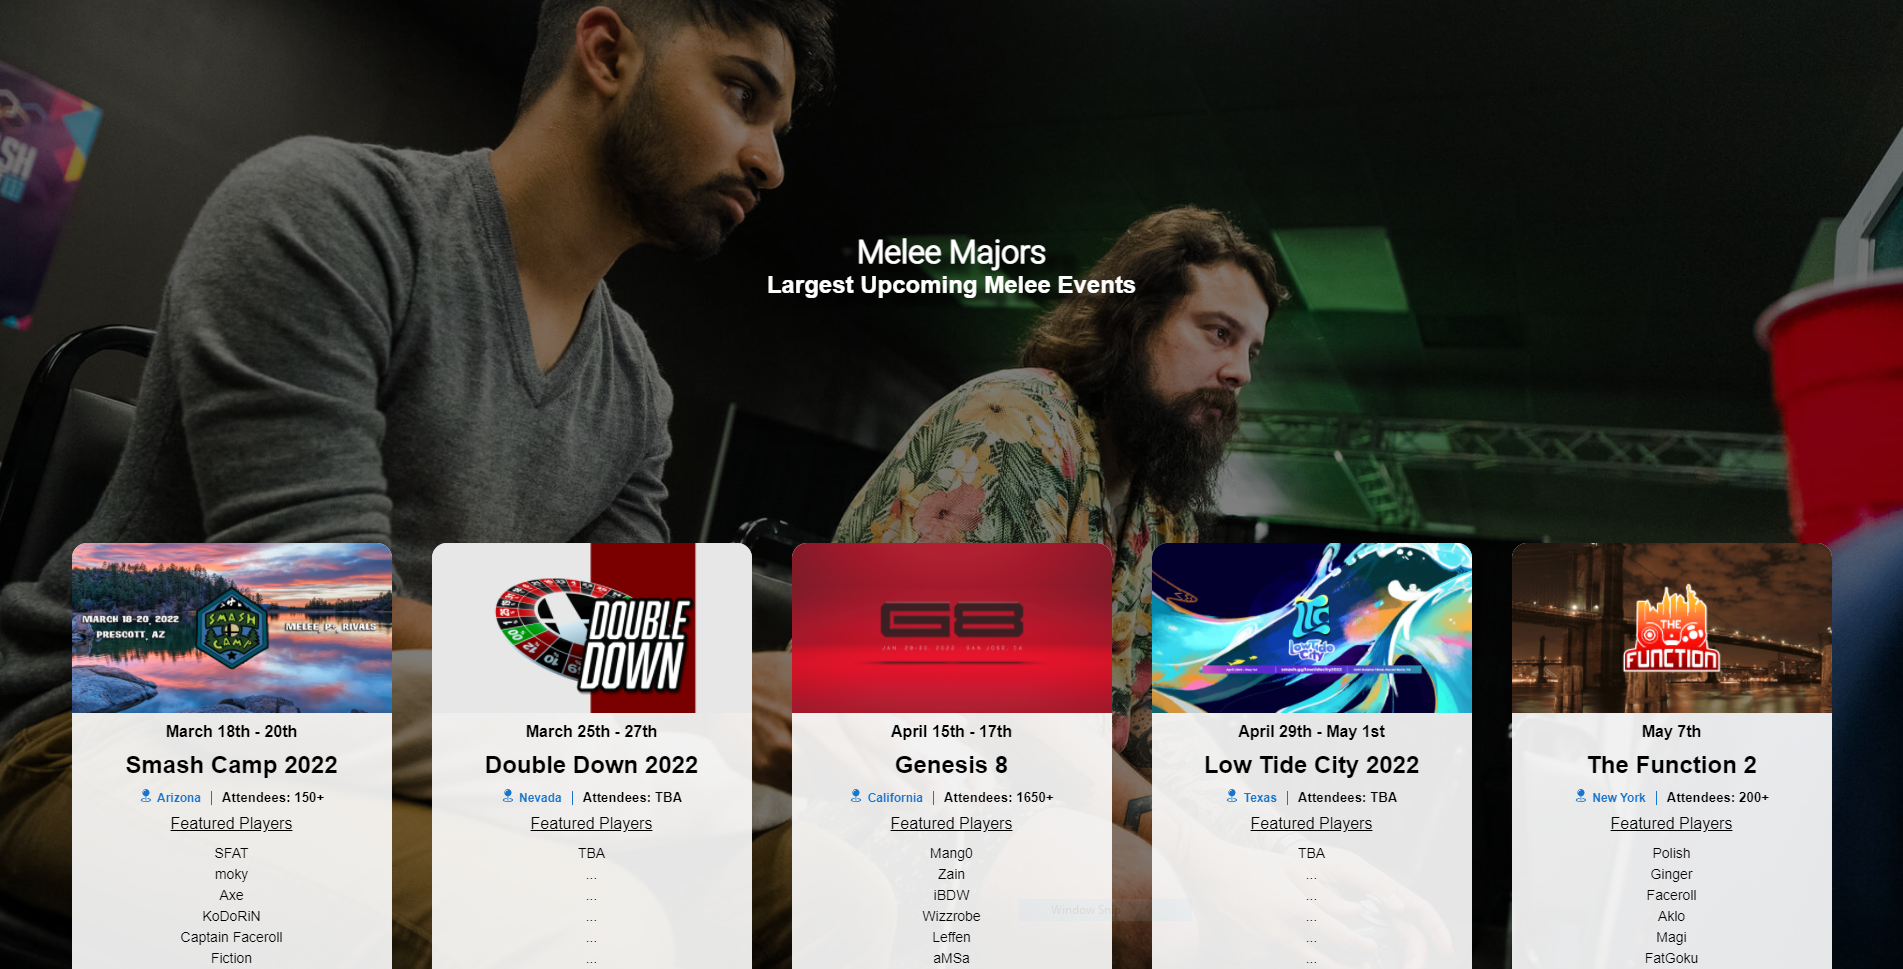
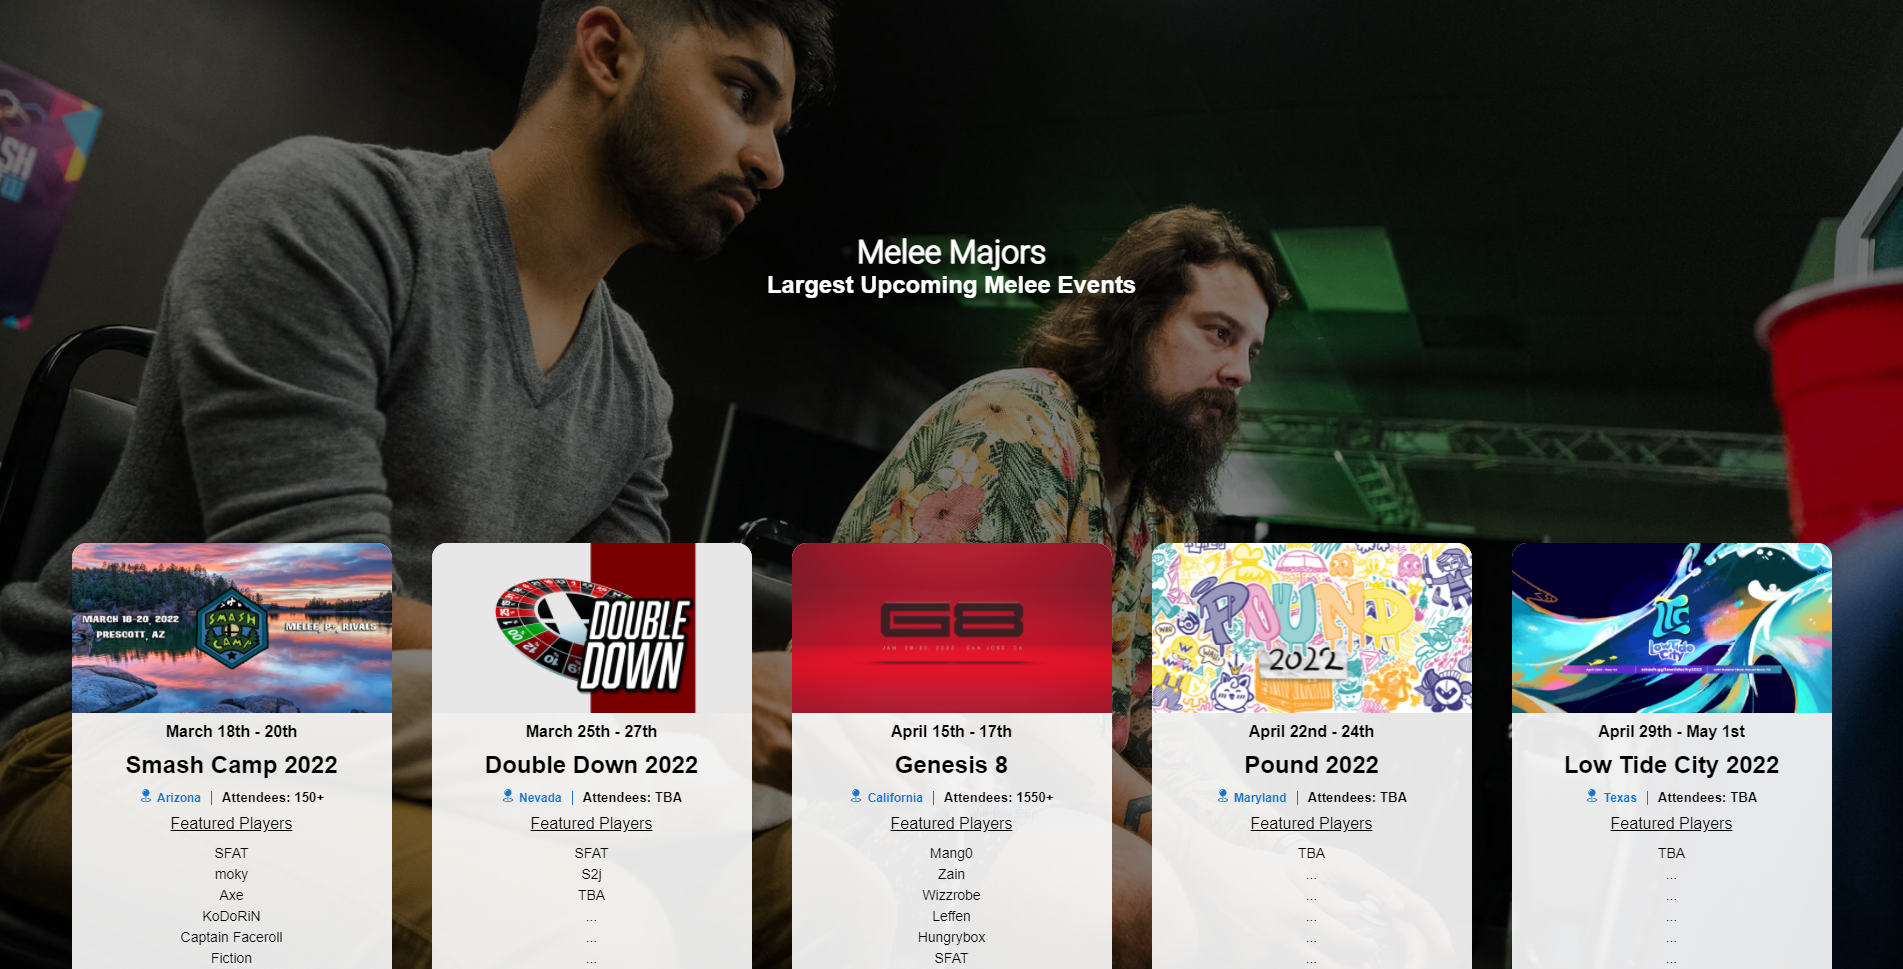
Update 1.6.0: Added Pound 2022 and CEO 2022, updated tournament information

diff --git a/index.html b/index.html
@@ -10,7 +10,7 @@
     <link rel="shortcut icon" href="icon.png" />
     <meta property="og:image" content="http://meleemajors.com/meleeog.PNG">
     <link href="https://fonts.googleapis.com/css2?family=Roboto:wght@300&display=swap" rel="stylesheet">
-    <link rel="stylesheet" href="style1.5.9.css">
+    <link rel="stylesheet" href="style1.6.0.css">
     <link rel="stylesheet" href="https://cdnjs.cloudflare.com/ajax/libs/font-awesome/4.7.0/css/font-awesome.min.css">
     <title>Melee Majors</title>
 </head>
@@ -53,9 +53,9 @@
             <h2>Double Down 2022</h2>
             <h5><svg xmlns="http://www.w3.org/2000/svg" xmlns:xlink="http://www.w3.org/1999/xlink" aria-hidden="true" focusable="false" width="1em" height="1em" style="-ms-transform: rotate(360deg); -webkit-transform: rotate(360deg); transform: rotate(360deg);" preserveAspectRatio="xMidYMid meet" viewBox="0 0 16 16"><g fill="#1874cd" fill-rule="evenodd"><path d="M8 6h.956v7.944H8z"/><path d="M8.511.016C6.047.016 4.047 2.024 4.047 4.5c0 2.478 2 4.484 4.464 4.484c2.465 0 4.464-2.007 4.464-4.484S10.977.016 8.511.016zm.159 1.626a3.008 3.008 0 0 0-3.018 2.997c0 .662-.648.346-.648-.645A3.008 3.008 0 0 1 8.022.997c.996 0 1.314.645.648.645z"/><path d="M10.109 11.156v.926c2.477.248 3.729 1.062 3.729 1.47c0 .509-1.887 1.501-5.344 1.501c-3.459 0-5.346-.992-5.346-1.501c0-.438 1.342-1.181 3.758-1.421v-.927c-2.379.211-4.872.938-4.872 2.36c0 1.598 3.249 2.433 6.46 2.433c3.209 0 6.459-.835 6.459-2.433c0-1.462-2.56-2.203-4.844-2.408z"/></g><rect x="0" y="0" width="16" height="16" fill="rgba(0, 0, 0, 0)" /></svg><div class="location-place">Nevada</div><div class="attendees">Attendees: TBA</div></h5>
             <p>Featured Players</p>
+                <div class="fix">SFAT</div>
+                <div class="fix">S2j</div>
                 <div class="fix">TBA</div>
-                <div class="fix">...</div>
-                <div class="fix">...</div>
                 <div class="fix">...</div>
                 <div class="fix">...</div>
                 <div class="fix">...</div>
@@ -72,18 +72,39 @@
             <div class="card-image card-g8"></div>
             <h4>April 15th - 17th</h4>
             <h2>Genesis 8</h2>
-            <h5><svg xmlns="http://www.w3.org/2000/svg" xmlns:xlink="http://www.w3.org/1999/xlink" aria-hidden="true" focusable="false" width="1em" height="1em" style="-ms-transform: rotate(360deg); -webkit-transform: rotate(360deg); transform: rotate(360deg);" preserveAspectRatio="xMidYMid meet" viewBox="0 0 16 16"><g fill="#1874cd" fill-rule="evenodd"><path d="M8 6h.956v7.944H8z"/><path d="M8.511.016C6.047.016 4.047 2.024 4.047 4.5c0 2.478 2 4.484 4.464 4.484c2.465 0 4.464-2.007 4.464-4.484S10.977.016 8.511.016zm.159 1.626a3.008 3.008 0 0 0-3.018 2.997c0 .662-.648.346-.648-.645A3.008 3.008 0 0 1 8.022.997c.996 0 1.314.645.648.645z"/><path d="M10.109 11.156v.926c2.477.248 3.729 1.062 3.729 1.47c0 .509-1.887 1.501-5.344 1.501c-3.459 0-5.346-.992-5.346-1.501c0-.438 1.342-1.181 3.758-1.421v-.927c-2.379.211-4.872.938-4.872 2.36c0 1.598 3.249 2.433 6.46 2.433c3.209 0 6.459-.835 6.459-2.433c0-1.462-2.56-2.203-4.844-2.408z"/></g><rect x="0" y="0" width="16" height="16" fill="rgba(0, 0, 0, 0)" /></svg><div class="location-place">California</div><div class="attendees">Attendees: 1650+</div></h5>
+            <h5><svg xmlns="http://www.w3.org/2000/svg" xmlns:xlink="http://www.w3.org/1999/xlink" aria-hidden="true" focusable="false" width="1em" height="1em" style="-ms-transform: rotate(360deg); -webkit-transform: rotate(360deg); transform: rotate(360deg);" preserveAspectRatio="xMidYMid meet" viewBox="0 0 16 16"><g fill="#1874cd" fill-rule="evenodd"><path d="M8 6h.956v7.944H8z"/><path d="M8.511.016C6.047.016 4.047 2.024 4.047 4.5c0 2.478 2 4.484 4.464 4.484c2.465 0 4.464-2.007 4.464-4.484S10.977.016 8.511.016zm.159 1.626a3.008 3.008 0 0 0-3.018 2.997c0 .662-.648.346-.648-.645A3.008 3.008 0 0 1 8.022.997c.996 0 1.314.645.648.645z"/><path d="M10.109 11.156v.926c2.477.248 3.729 1.062 3.729 1.47c0 .509-1.887 1.501-5.344 1.501c-3.459 0-5.346-.992-5.346-1.501c0-.438 1.342-1.181 3.758-1.421v-.927c-2.379.211-4.872.938-4.872 2.36c0 1.598 3.249 2.433 6.46 2.433c3.209 0 6.459-.835 6.459-2.433c0-1.462-2.56-2.203-4.844-2.408z"/></g><rect x="0" y="0" width="16" height="16" fill="rgba(0, 0, 0, 0)" /></svg><div class="location-place">California</div><div class="attendees">Attendees: 1550+</div></h5>
             <p>Featured Players</p>
                 <div class="fix">Mang0</div>
                 <div class="fix">Zain</div>
-                <div class="fix">iBDW</div>
                 <div class="fix">Wizzrobe</div>
                 <div class="fix">Leffen</div>
-                <div class="fix">aMSa</div>
                 <div class="fix">Hungrybox</div>
+                <div class="fix">SFAT</div>
+                <div class="fix">n0ne</div>
             <div class="try">   
                 <div class="button-box">    
                     <a class="button1" href="https://smash.gg/tournament/genesis-8/details">Smash.gg</a>
+                    <a class="button2" href="https://www.twitch.tv/directory/game/Super%20Smash%20Bros.%20Melee">Livestream</a>
+                </div>
+            </div> 
+        </div>
+
+        <div class="card">
+            <div class="card-image card-pound"></div>
+            <h4>April 22nd - 24th</h4>
+            <h2>Pound 2022</h2>
+            <h5><svg xmlns="http://www.w3.org/2000/svg" xmlns:xlink="http://www.w3.org/1999/xlink" aria-hidden="true" focusable="false" width="1em" height="1em" style="-ms-transform: rotate(360deg); -webkit-transform: rotate(360deg); transform: rotate(360deg);" preserveAspectRatio="xMidYMid meet" viewBox="0 0 16 16"><g fill="#1874cd" fill-rule="evenodd"><path d="M8 6h.956v7.944H8z"/><path d="M8.511.016C6.047.016 4.047 2.024 4.047 4.5c0 2.478 2 4.484 4.464 4.484c2.465 0 4.464-2.007 4.464-4.484S10.977.016 8.511.016zm.159 1.626a3.008 3.008 0 0 0-3.018 2.997c0 .662-.648.346-.648-.645A3.008 3.008 0 0 1 8.022.997c.996 0 1.314.645.648.645z"/><path d="M10.109 11.156v.926c2.477.248 3.729 1.062 3.729 1.47c0 .509-1.887 1.501-5.344 1.501c-3.459 0-5.346-.992-5.346-1.501c0-.438 1.342-1.181 3.758-1.421v-.927c-2.379.211-4.872.938-4.872 2.36c0 1.598 3.249 2.433 6.46 2.433c3.209 0 6.459-.835 6.459-2.433c0-1.462-2.56-2.203-4.844-2.408z"/></g><rect x="0" y="0" width="16" height="16" fill="rgba(0, 0, 0, 0)" /></svg><div class="location-place">Maryland</div><div class="attendees">Attendees: TBA</div></h5>
+            <p>Featured Players</p>
+                <div class="fix">TBA</div>
+                <div class="fix">...</div>
+                <div class="fix">...</div>
+                <div class="fix">...</div>
+                <div class="fix">...</div>
+                <div class="fix">...</div>
+                <div class="fix">...</div>
+            <div class="try">   
+                <div class="button-box">    
+                    <a class="button1" href="https://smash.gg/tournament/pound-2022/details">Smash.gg</a>
                     <a class="button2" href="https://www.twitch.tv/directory/game/Super%20Smash%20Bros.%20Melee">Livestream</a>
                 </div>
             </div> 
@@ -132,27 +153,6 @@
         </div>
 
         <div class="card">
-            <div class="card-image card-bam"></div>
-            <h4>May 13th - 15th</h4>
-            <h2>Battle Arena Melbourne</h2>
-            <h5><svg xmlns="http://www.w3.org/2000/svg" xmlns:xlink="http://www.w3.org/1999/xlink" aria-hidden="true" focusable="false" width="1em" height="1em" style="-ms-transform: rotate(360deg); -webkit-transform: rotate(360deg); transform: rotate(360deg);" preserveAspectRatio="xMidYMid meet" viewBox="0 0 16 16"><g fill="#1874cd" fill-rule="evenodd"><path d="M8 6h.956v7.944H8z"/><path d="M8.511.016C6.047.016 4.047 2.024 4.047 4.5c0 2.478 2 4.484 4.464 4.484c2.465 0 4.464-2.007 4.464-4.484S10.977.016 8.511.016zm.159 1.626a3.008 3.008 0 0 0-3.018 2.997c0 .662-.648.346-.648-.645A3.008 3.008 0 0 1 8.022.997c.996 0 1.314.645.648.645z"/><path d="M10.109 11.156v.926c2.477.248 3.729 1.062 3.729 1.47c0 .509-1.887 1.501-5.344 1.501c-3.459 0-5.346-.992-5.346-1.501c0-.438 1.342-1.181 3.758-1.421v-.927c-2.379.211-4.872.938-4.872 2.36c0 1.598 3.249 2.433 6.46 2.433c3.209 0 6.459-.835 6.459-2.433c0-1.462-2.56-2.203-4.844-2.408z"/></g><rect x="0" y="0" width="16" height="16" fill="rgba(0, 0, 0, 0)" /></svg><div class="location-place">Melbourne</div><div class="attendees">Attendees: TBA</div></h5>
-            <p>Featured Players</p>
-                <div class="fix">TBA</div>
-                <div class="fix">...</div>
-                <div class="fix">...</div>
-                <div class="fix">...</div>
-                <div class="fix">...</div>
-                <div class="fix">...</div>
-		        <div class="fix">...</div>
-            <div class="try">   
-                <div class="button-box">    
-                    <a class="button1" href="https://smash.gg/tournament/bam-battle-arena-melbourne-12-2021/details">Smash.gg</a>
-                    <a class="button2" href="https://www.twitch.tv/directory/game/Super%20Smash%20Bros.%20Melee">Livestream</a>
-                </div>
-            </div> 
-        </div>
-
-        <div class="card">
             <div class="card-image card-summit13"></div>
             <h4>Summer TBA</h4>
             <h2>Smash Summit 13</h2>
@@ -195,6 +195,27 @@
         </div>
 
         <div class="card">
+            <div class="card-image card-ceo"></div>
+            <h4>June 24th - 26th</h4>
+            <h2>CEO 2022</h2>
+            <h5><svg xmlns="http://www.w3.org/2000/svg" xmlns:xlink="http://www.w3.org/1999/xlink" aria-hidden="true" focusable="false" width="1em" height="1em" style="-ms-transform: rotate(360deg); -webkit-transform: rotate(360deg); transform: rotate(360deg);" preserveAspectRatio="xMidYMid meet" viewBox="0 0 16 16"><g fill="#1874cd" fill-rule="evenodd"><path d="M8 6h.956v7.944H8z"/><path d="M8.511.016C6.047.016 4.047 2.024 4.047 4.5c0 2.478 2 4.484 4.464 4.484c2.465 0 4.464-2.007 4.464-4.484S10.977.016 8.511.016zm.159 1.626a3.008 3.008 0 0 0-3.018 2.997c0 .662-.648.346-.648-.645A3.008 3.008 0 0 1 8.022.997c.996 0 1.314.645.648.645z"/><path d="M10.109 11.156v.926c2.477.248 3.729 1.062 3.729 1.47c0 .509-1.887 1.501-5.344 1.501c-3.459 0-5.346-.992-5.346-1.501c0-.438 1.342-1.181 3.758-1.421v-.927c-2.379.211-4.872.938-4.872 2.36c0 1.598 3.249 2.433 6.46 2.433c3.209 0 6.459-.835 6.459-2.433c0-1.462-2.56-2.203-4.844-2.408z"/></g><rect x="0" y="0" width="16" height="16" fill="rgba(0, 0, 0, 0)" /></svg><div class="location-place">Florida</div><div class="attendees">Attendees: TBA</div></h5>
+            <p>Featured Players</p>
+                <div class="fix">TBA</div>
+                <div class="fix">...</div>
+                <div class="fix">...</div>
+                <div class="fix">...</div>
+                <div class="fix">...</div>
+                <div class="fix">...</div>
+                <div class="fix">...</div>
+            <div class="try">   
+                <div class="button-box">    
+                    <a class="button1" href="https://smash.gg/tournament/ceo-2022-fighting-game-championships/details">Smash.gg</a>
+                    <a class="button2" href="https://www.twitch.tv/directory/game/Super%20Smash%20Bros.%20Melee">Livestream</a>
+                </div>
+            </div> 
+        </div>
+
+        <div class="card">
             <div class="card-image card-bighouse"></div>
             <h4>October 7th - 9th</h4>
             <h2>The Big House 10</h2>
@@ -225,5 +246,5 @@
     <img id="bg5" class="bgImg" src="5.jpg">
     <img id="bg6" class="bgImg" src="6.jpg">
 </body>
-<script type="text/javascript" src="script1.5.9.js"></script>
+<script type="text/javascript" src="script1.6.0.js"></script>
 </html>

diff --git a/style1.6.0.css b/style1.6.0.css
@@ -141,6 +141,10 @@ h2 {
   background-image: url(g8.png);
 }
 
+.card-pound {
+  background-image: url(pound.png);
+}
+
 .card-camp {
   background-image: url(camp.png);
 }
@@ -166,6 +170,10 @@ h2 {
 
 .card-battleofbc {
   background-image: url(battleofbc.png);
+}
+
+.card-ceo {
+  background-image: url(ceo.png);
 }
 
 .card-bighouse {
